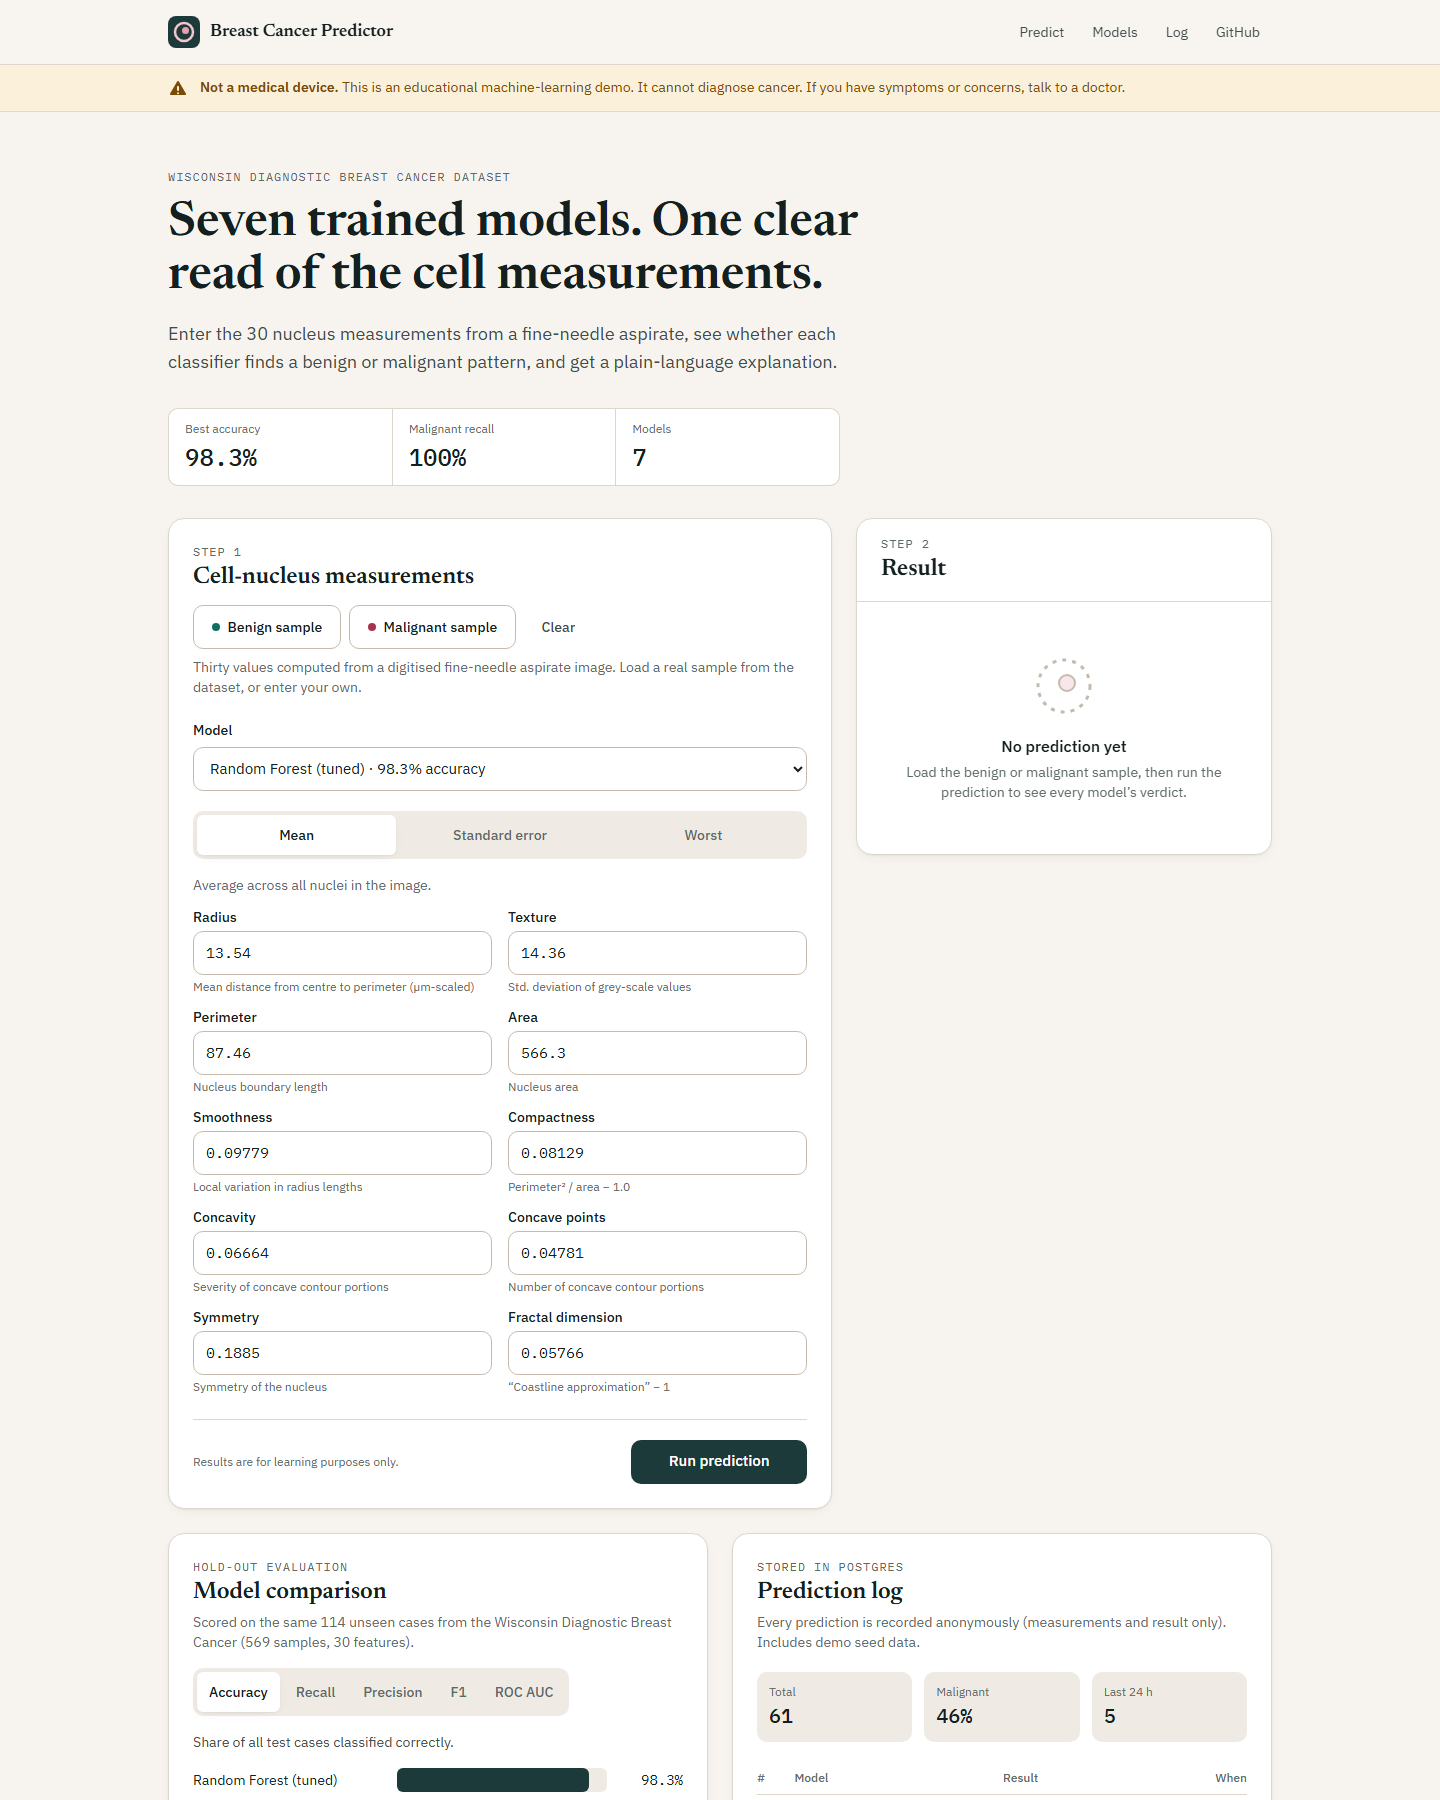
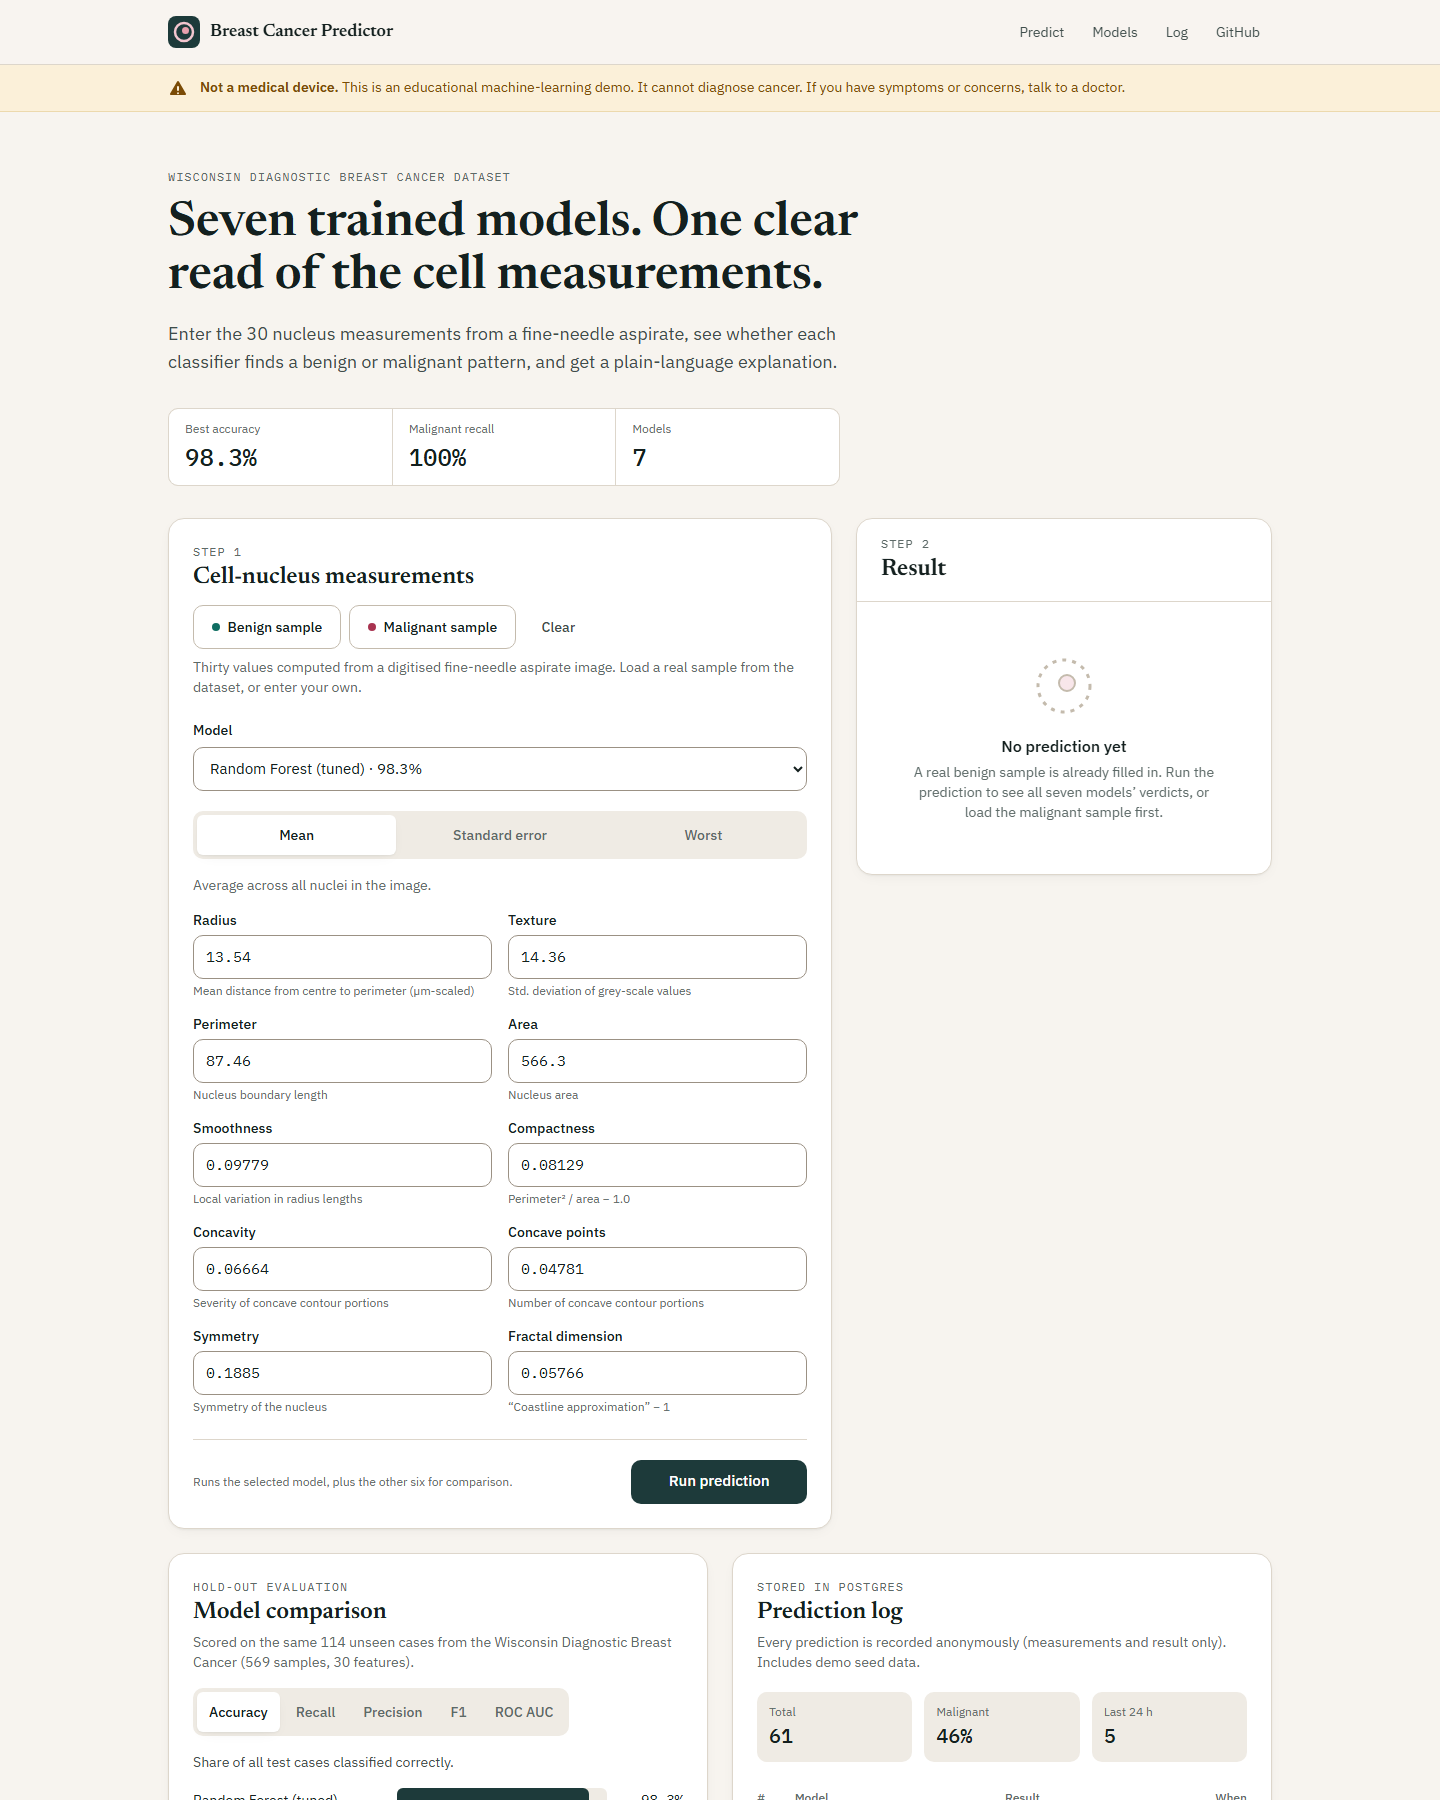
chore: leave GROQ_API_KEY empty in .env.example, refresh desktop screenshot

diff --git a/frontend/src/components/PredictForm.tsx b/frontend/src/components/PredictForm.tsx
@@ -151,7 +151,7 @@ export function PredictForm(p: Props) {
               const err = p.errors[name];
               return (
                 <div key={name}>
-                  <label htmlFor={id} className="text-sm font-medium">
+                  <label htmlFor={id} className="block text-sm font-medium">
                     {b.label}
                   </label>
                   <input
